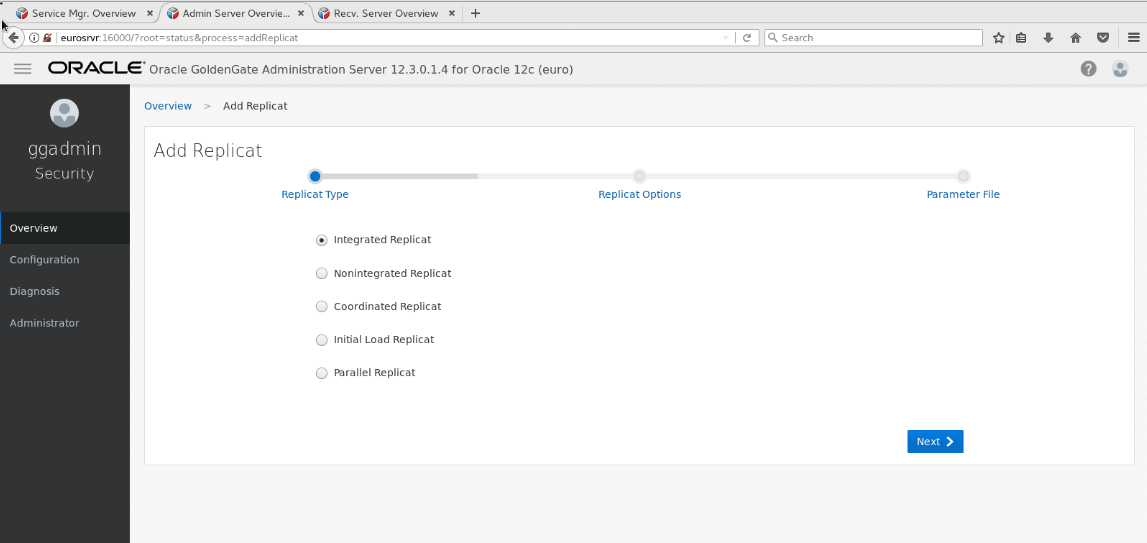
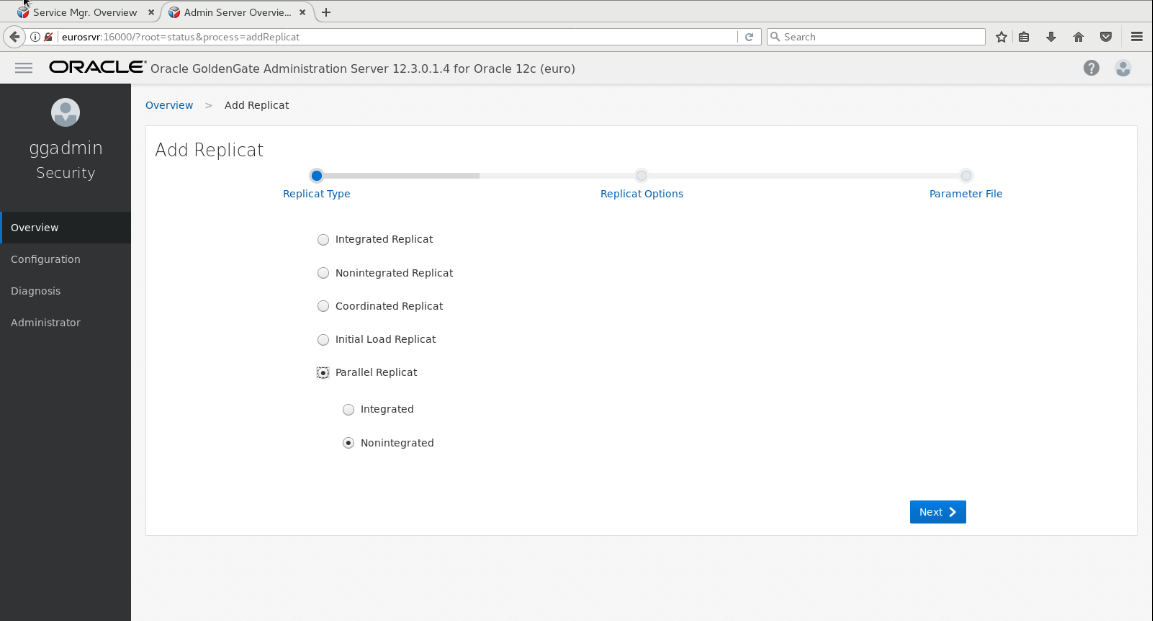
commit

diff --git a/workshops/gg/CloudWorkshop_GoldenGate_400.md b/workshops/gg/CloudWorkshop_GoldenGate_400.md
@@ -125,10 +125,30 @@ Figure A-11:
 
 On the last page of the Add Extract process, you are presented with a parameter file (Figure A-12).  The parameter file is partially filled out, but missing the TABLE parameters. Insert the following list of TABLE parameter values into the parameter file.
 
-TABLE SOE.ADDRESSES;                                                                                                              TABLE SOE.CUSTOMERS;                                                                                                              TABLE SOE.ORDERS;                                                                                                                 
-TABLE SOE.ORDER_ITEMS;                                                                                                            TABLE SOE.CARD_DETAILS; 
-TABLE SOE.LOGON;                                                                                                                  TABLE SOE.PRODUCT_INFORMATION;                                                                                                    
-TABLE SOE.INVENTORIES;                                                                                                            TABLE SOE.PRODUCT_DESCRIPTIONS;                                                                                                   TABLE SOE.WAREHOUSES;                                                                                                             TABLE SOE.ORDERENTRY_METADATA; 
+TABLE SOE.ADDRESSES;                                                                                                              
+
+TABLE SOE.CUSTOMERS;                                                                                                              
+
+TABLE SOE.ORDERS;                                                                                                                 
+
+
+TABLE SOE.ORDER_ITEMS;                                                                                                            
+
+TABLE SOE.CARD_DETAILS; 
+
+
+TABLE SOE.LOGON;                                                                                                                  
+
+TABLE SOE.PRODUCT_INFORMATION;                                                                                                    
+
+
+TABLE SOE.INVENTORIES;                                                                                                            
+
+TABLE SOE.PRODUCT_DESCRIPTIONS;                                                                                                   
+
+TABLE SOE.WAREHOUSES;                                                                                                             
+
+TABLE SOE.ORDERENTRY_METADATA; 
 
 Notes: ~/Desktop/Software/extract.prm has these contents for copying.
 Once the TABLE statements are added, click Create and Run at the bottom of the page.
@@ -238,38 +258,62 @@ Figure D-3:
  
 ![](images/400/Lab400_image340.png) 
 
-
-4.	Navigate back to the Overview page on the Administration Server.  Here you will begin to create your Integrated Replicat (Figure D-4).  Click the plus sign ( + ) to open the Add Replicat process.
+4. After Adding the credential you would need to create the checkpoint table 
 
 Figure D-4:
+ 
+![](images/400/Lab400_image390.png) 
+
+5.	Navigate back to the Overview page on the Administration Server.  Here you will begin to create your Integrated Replicat (Figure D-5).  Click the plus sign ( + ) to open the Add Replicat process.
+
+Figure D-5:
  
 ![](images/400/Lab400_image350.png) 
 
 
-5.	With the Add Replicat page open, you want to create an Integrated Replicat.  Make sure the radio button is selected and click Next (Figure D-5).
+6.	With the Add Replicat page open, you want to create a Nonintegrated Parallel Replicat.  Make sure the radio button is selected and click Next (Figure D-6).
 
-Figure D-5:
+Figure D-6:
  
 ![](images/400/Lab400_image360.png) 
 
 
-6.	Fill in the Replicat options form with the required information (Figure D-6).  Your trail name should match the trail name you saw in the Receiver Server.  Once you are done filling everything out, click the Next button at the bottom of the screen.
+7.	Fill in the Replicat options form with the required information (Figure D-7).  Your trail name should match the trail name you saw in the Receiver Server.  Once you are done filling everything out, click the Next button at the bottom of the screen.
 
-Figure D-6:
+Figure D-7:
  
 ![](images/400/Lab400_image370.png) 
 
-7.	You are next taken to the Parameter File page.  On this page, you will notice that a sample parameter file is provided (Figure D-7).  You will have to remove the MAP statement and replace it with the information below:
+8.	You are next taken to the Parameter File page.  On this page, you will notice that a sample parameter file is provided (Figure D-8).  You will have to remove the MAP statement and replace it with the information below:
 
 INSERTMISSINGUPDATES
-MAP PDB1.SOE.CUSTOMERS, TARGET SOE.CUSTOMERS, KEYCOLS (CUSTOMER_ID);                                                              MAP PDB1.SOE.ADDRESSES, TARGET SOE.ADDRESSES, KEYCOLS (ADDRESS_ID);                                                               
-MAP PDB1.SOE.ORDERS, TARGET SOE.ORDERS, KEYCOLS (ORDER_ID);                                                                       MAP PDB1.SOE.ORDER_ITEMS, TARGET SOE.ORDER_ITEMS, KEYCOLS (ORDER_ID, LINE_ITEM_ID);                                               MAP PDB1.SOE.CARD_DETAILS, TARGET SOE.CARD_DETAILS, KEYCOLS (CARD_ID);
-MAP PDB1.SOE.LOGON, TARGET SOE.LOGON;                                                                                             MAP PDB1.SOE.PRODUCT_INFORMATION, TARGET SOE.PRODUCT_INFORMATION;                                                                 MAP PDB1.SOE.INVENTORIES, TARGET SOE.INVENTORIES, KEYCOLS (PRODUCT_ID, WAREHOUSE_ID);
-MAP PDB1.SOE.PRODUCT_DESCRIPTIONS, TARGET SOE.PRODUCT_DESCRIPTIONS;                                                               MAP PDB1.SOE.WAREHOUSES, TARGET SOE.WAREHOUSES;                                                                                   MAP PDB1.SOE.ORDERENTRY_METADATA, TARGET SOE.ORDERENTRY_METADATA;
+
+MAP PDB1.SOE.CUSTOMERS, TARGET SOE.CUSTOMERS, KEYCOLS (CUSTOMER_ID);                                                              
+
+MAP PDB1.SOE.ADDRESSES, TARGET SOE.ADDRESSES, KEYCOLS (ADDRESS_ID);                                                               
+
+MAP PDB1.SOE.ORDERS, TARGET SOE.ORDERS, KEYCOLS (ORDER_ID);                                                                       
+
+MAP PDB1.SOE.ORDER_ITEMS, TARGET SOE.ORDER_ITEMS, KEYCOLS (ORDER_ID, LINE_ITEM_ID);                                               
+
+MAP PDB1.SOE.CARD_DETAILS, TARGET SOE.CARD_DETAILS, KEYCOLS (CARD_ID);
+
+MAP PDB1.SOE.LOGON, TARGET SOE.LOGON;                                                                                             
+
+MAP PDB1.SOE.PRODUCT_INFORMATION, TARGET SOE.PRODUCT_INFORMATION;                                                                 
+
+MAP PDB1.SOE.INVENTORIES, TARGET SOE.INVENTORIES, KEYCOLS (PRODUCT_ID, WAREHOUSE_ID);
+
+MAP PDB1.SOE.PRODUCT_DESCRIPTIONS, TARGET SOE.PRODUCT_DESCRIPTIONS;                                                               
+
+MAP PDB1.SOE.WAREHOUSES, TARGET SOE.WAREHOUSES;                                                                                   
+
+MAP PDB1.SOE.ORDERENTRY_METADATA, TARGET SOE.ORDERENTRY_METADATA;
+
 Notes: ~/Desktop/Software/replicat.prm has these contents for copying.
 Once the parameter file has been updated, click the Create and Run button at the bottom.
 
-Figure D-7:
+Figure D-8:
  
 ![](images/400/Lab400_image380.png) 
 
